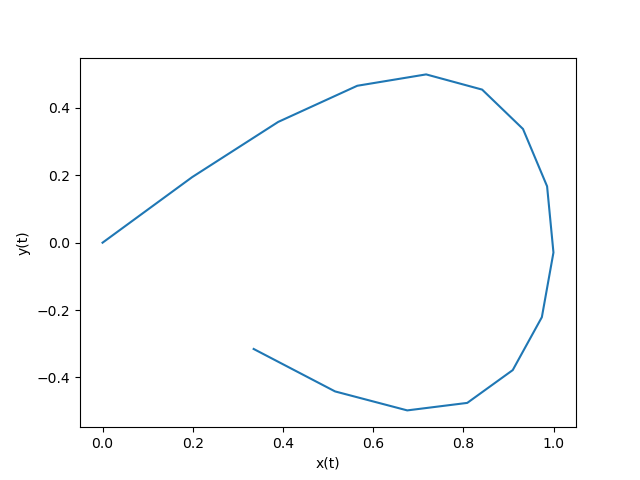
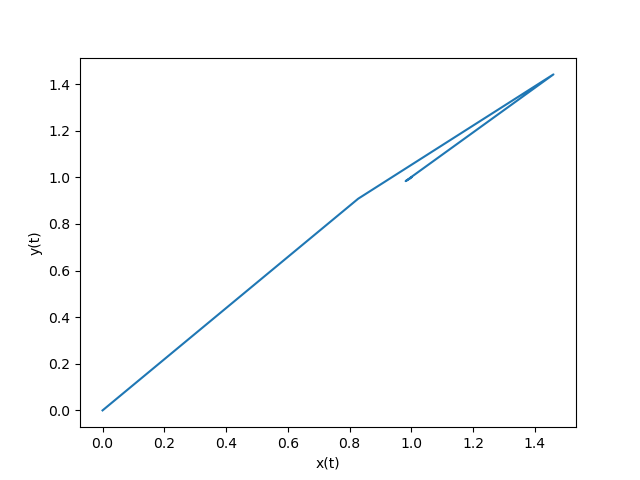
upload png

diff --git a/scripts/src_test/motion_planner.py b/scripts/src_test/motion_planner.py
@@ -1,9 +1,13 @@
 import numpy as np
-import time
-import copy
 
 from pydrake.all import MathematicalProgram, Solve
-from pydrake.systems.framework import LeafSystem, PublishEvent, TriggerType, InputPortIndex
+from pydrake.common.value import Value
+from pydrake.systems.framework import (
+    LeafSystem,
+    PublishEvent,
+    TriggerType,
+    BasicVector_,
+)
 
 import pdb
 
@@ -14,21 +18,34 @@ class QuadraticProgram(LeafSystem):
         # Class Parameters:
         self._UPDATE_RATE = 1.0 / 5.0
 
-        # Initialize Output Values:
-        self.trajectory = np.zeros((63,), dtype=float)
+        # Mathematical Program Parameters:
+        self._dim_size = 2
+        self._state_size = self._dim_size * 2
+        self._full_size = self._dim_size * 3
+        self._num_nodes = 21
+        self._time_horizon = 1.0
+        self._dt = self._time_horizon / (self._num_nodes - 1)
+
+        # Initialize Abstract States:
+        output_position = 3  # Only outputing the position trajectory (x, y, z)
+        output_size = np.zeros((output_position * self._num_nodes,))
+        output_state_init = Value[BasicVector_[float]](output_size)
+        self.state_index = self.DeclareAbstractState(output_state_init)
 
         # Declare Input:
-        self.initial_condition_input = self.DeclareVectorInputPort("initial_condition", 9).get_index()
+        # Full State From CrazySwarm:
+        # self.initial_condition_input = self.DeclareVectorInputPort("initial_condition", 9).get_index()
+        # Test Input:
+        self.initial_condition_input = self.DeclareVectorInputPort("initial_condition", 6).get_index()
         self.target_input = self.DeclareVectorInputPort("target_position", 2).get_index()
 
         # Declare Output: Trajectory Info
-        """Outputs reference trajectory"""
         self.DeclareVectorOutputPort(
-            "motion_plan_output", 
-            63, 
-            self.output,
-            {self.nothing_ticket()})
-        
+            "motion_plan_output",
+            np.size(output_size),
+            self.output_callback,
+           )
+
         # Declare Initialization Event:
         def on_initialize(context, event):
             self.solve_qp(context, event)
@@ -44,42 +61,40 @@ class QuadraticProgram(LeafSystem):
         def on_periodic(context, event):
             self.solve_qp(context, event)
 
-        self.DeclarePeriodicEvent(period_sec=self._UPDATE_RATE,
-                    offset_sec=0.0,
-                    event=PublishEvent(
-                        trigger_type=TriggerType.kPeriodic,
-                        callback=on_periodic,
-                        )
-                    )
+        self.DeclarePeriodicEvent(
+            period_sec=self._UPDATE_RATE,
+            offset_sec=0.0,
+            event=PublishEvent(
+                trigger_type=TriggerType.kPeriodic,
+                callback=on_periodic,
+                )
+            )
 
     # Output Port Callback:
-    def output(self, context, get_trajectory):
-        get_trajectory.SetFromVector(self.trajectory)
+    def output_callback(self, context, output_motion_plan):
+        a_state = context.get_mutable_abstract_state(self.state_index)
+        a_value = a_state.get_mutable_value()
+        output_motion_plan.SetFromVector(a_value.get_mutable_value())
 
     # Methods:
     def solve_qp(self, context, event):
+        """
+        2D Integrator
+        """
         # Initialize MathematicalProgram:
         self.prog = MathematicalProgram()
 
-        # Program Parameters:
-        dim_size = 2
-        state_size = dim_size * 2
-        full_size = dim_size * 3
-        num_nodes = 21
-        time_horizon = 1.0
-        dt = time_horizon / (num_nodes - 1)
-
         # Model Parameters:
         mass = 0.486
-        friction = 0.1 
+        friction = 0.1
 
-        # State and Control Inpute Variables:
-        x   = self.prog.NewContinuousVariables(num_nodes, "x")
-        y   = self.prog.NewContinuousVariables(num_nodes, "y")
-        dx  = self.prog.NewContinuousVariables(num_nodes, "dx")
-        dy  = self.prog.NewContinuousVariables(num_nodes, "dy")
-        ux  = self.prog.NewContinuousVariables(num_nodes, "ux")
-        uy  = self.prog.NewContinuousVariables(num_nodes, "uy")
+        # State and Control Input Variables:
+        x = self.prog.NewContinuousVariables(self._num_nodes, "x")
+        y = self.prog.NewContinuousVariables(self._num_nodes, "y")
+        dx = self.prog.NewContinuousVariables(self._num_nodes, "dx")
+        dy = self.prog.NewContinuousVariables(self._num_nodes, "dy")
+        ux = self.prog.NewContinuousVariables(self._num_nodes, "ux")
+        uy = self.prog.NewContinuousVariables(self._num_nodes, "uy")
 
         # Create Convenient Arrays:
         _s = np.vstack(np.array([x, y, dx, dy, ux, uy]))
@@ -87,13 +102,15 @@ class QuadraticProgram(LeafSystem):
         # Initial Condition Constraints:
         initial_conditions = self.get_input_port(self.initial_condition_input).Eval(context)
         """
+        If getting full state output of CrazySwarm
         Throw away z indicies
         TO DO: Update to 3D model
         """
-        z_index = [2, 5, 8]
-        bounds = np.delete(initial_conditions, z_index)
-        _A_initial_condition = np.eye(full_size, dtype=float)
-        constraint_initial_condition = self.prog.AddLinearConstraint(
+        # z_index = [2, 5, 8]
+        # bounds = np.delete(initial_conditions, z_index)
+        bounds = initial_conditions
+        _A_initial_condition = np.eye(self._full_size, dtype=float)
+        self.prog.AddLinearConstraint(
             A=_A_initial_condition,
             lb=bounds,
             ub=bounds,
@@ -110,39 +127,50 @@ class QuadraticProgram(LeafSystem):
 
         # Collocation Constraints: Python Function
         def collocation_func(z):
-            _defect = z[0][1:] - z[0][:-1] - z[1][:-1] * dt
+            _defect = z[0][1:] - z[0][:-1] - z[1][:-1] * self._dt
             return _defect
 
         ddx, ddy = (ux - friction * dx) / mass, (uy - friction * dy) / mass
-        _x_defect   = collocation_func([x,  dx])
-        _dx_defect  = collocation_func([dx, ddx])
-        _y_defect   = collocation_func([y,  dy])
-        _dy_defect  = collocation_func([dy, ddy])
+        _x_defect = collocation_func([x,  dx])
+        _dx_defect = collocation_func([dx, ddx])
+        _y_defect = collocation_func([y,  dy])
+        _dy_defect = collocation_func([dy, ddy])
         _expr_array = np.asarray([_x_defect, _dx_defect, _y_defect, _dy_defect]).flatten()
 
-        bounds = np.zeros(4 * (num_nodes-1), dtype=float)
-        defect_constraint = self.prog.AddLinearConstraint(
-            _expr_array, 
-            lb=bounds, 
-            ub=bounds 
+        bounds = np.zeros(4 * (self._num_nodes-1), dtype=float)
+        self.prog.AddLinearConstraint(
+            _expr_array,
+            lb=bounds,
+            ub=bounds
             )
 
         # Objective Function:
         target_positions = self.get_input_port(self.target_input).Eval(context)
         target_positions = np.reshape(target_positions, (2, 1))
-        _error =  target_positions - _s[:2, :]
-        _objective_task = self.prog.AddQuadraticCost(np.sum(_error ** 2))
+        _error = target_positions - _s[:2, :]
+        self.prog.AddQuadraticCost(np.sum(_error ** 2))
 
         # Solve the program.
         self.solution = Solve(self.prog)
 
         # Store Solution for Output:
-        # self.trajectory = np.array([
-        #     self.solution.GetSolution(x) , self.solution.GetSolution(y),
-        #     self.solution.GetSolution(dx), self.solution.GetSolution(dy),
-        #     self.solution.GetSolution(ux), self.solution.GetSolution(uy)
-        #     ], dtype=float)
+        self._full_state_trajectory = np.vstack([
+            self.solution.GetSolution(x), self.solution.GetSolution(y),
+            self.solution.GetSolution(dx), self.solution.GetSolution(dy),
+            self.solution.GetSolution(ux), self.solution.GetSolution(uy)
+            ]).flatten()
 
         self.trajectory = np.vstack([
-            self.solution.GetSolution(x), self.solution.GetSolution(y), np.zeros((num_nodes,), dtype=float)
+            self.solution.GetSolution(x),
+            self.solution.GetSolution(y),
+            np.zeros((self._num_nodes,), dtype=float)
             ]).flatten()
+
+        # How can I clean this up?
+        a_state = context.get_mutable_abstract_state(self.state_index)
+        a_state.set_value(self.trajectory)
+
+
+# Test Instantiation:
+if __name__ == "__main__":
+    unit_test = QuadraticProgram()

diff --git a/scripts/src_test/unittest_motion_planner.py b/scripts/src_test/unittest_motion_planner.py
@@ -1,0 +1,75 @@
+import matplotlib.pyplot as plt
+import numpy as np
+
+from pydrake.systems.analysis import Simulator
+from pydrake.systems.framework import DiagramBuilder
+from pydrake.systems.primitives import LogVectorOutput, ConstantVectorSource
+
+import pdb
+
+# Custom LeafSystems:
+import motion_planner
+
+# Create a block diagram containing our system.
+builder = DiagramBuilder()
+
+# Motion Planner:
+driver_planner = motion_planner.QuadraticProgram()
+planner = builder.AddSystem(driver_planner)
+
+# Create Dummy Inputs:
+dummy_target_position = builder.AddSystem(ConstantVectorSource(np.ones((2,), dtype=float)))
+driver_ic = ConstantVectorSource(np.zeros((6,), dtype=float))
+dummy_initial_condition = builder.AddSystem(driver_ic)
+
+# Connect Systems:
+builder.Connect(
+    dummy_target_position.get_output_port(0),
+    planner.get_input_port(driver_planner.target_input)
+    )
+
+builder.Connect(
+    dummy_initial_condition.get_output_port(0),
+    planner.get_input_port(driver_planner.initial_condition_input)
+    )
+
+# Logger:
+logger = LogVectorOutput(planner.get_output_port(0), builder)
+diagram = builder.Build()
+
+# Set the initial conditions, x(0).
+context = diagram.CreateDefaultContext()
+
+# Create the simulator:
+simulator = Simulator(diagram, context)
+simulator.set_target_realtime_rate(1.0)
+simulator.Initialize()
+
+# Simulate System:
+FINAL_TIME = 10.0
+dt = 1.0 / 100.0
+next_time_step = dt
+
+while next_time_step <= FINAL_TIME:
+    print(f"Drake Real Time Rate: {simulator.get_actual_realtime_rate()}")
+    simulator.AdvanceTo(next_time_step)
+    # Get Subsystem Context for ConstantSourceVector:
+    subsystem_context = driver_ic.GetMyContextFromRoot(context)
+    src_value = driver_ic.get_mutable_source_value(subsystem_context)
+    # Get end states to set as next IC:
+    new_ic = np.reshape(
+        driver_planner._full_state_trajectory,
+        (-1, driver_planner._num_nodes)
+        )[:, -1]
+    src_value.set_value(new_ic)
+    # Increment time step:
+    next_time_step += dt
+
+# Plot the results:
+log = logger.FindLog(context)
+plt.figure()
+plt.plot(log.data()[0, :], log.data()[1, :])
+plt.xlabel('x(t)')
+plt.ylabel('y(t)')
+plt.show()
+plt.savefig('foo.png')

diff --git a/scripts/src_test/unittest_reference_trajectory.py b/scripts/src_test/unittest_reference_trajectory.py
@@ -4,9 +4,6 @@ from pydrake.systems.analysis import Simulator
 from pydrake.systems.framework import DiagramBuilder
 from pydrake.systems.primitives import LogVectorOutput
 
-# DEBUG:
-import pdb
-
 # Custom LeafSystems:
 import reference_trajectory
 
@@ -17,11 +14,11 @@ builder = DiagramBuilder()
 driver_reference = reference_trajectory.FigureEight()
 reference = builder.AddSystem(driver_reference)
 
-# Logger: (Causing Output Erro)
+# Logger:
 logger = LogVectorOutput(reference.get_output_port(0), builder)
 diagram = builder.Build()
 
-# Set the initial conditions, x(0).
+# Set the initial context
 context = diagram.CreateDefaultContext()
 
 # Create the simulator:
@@ -30,7 +27,7 @@ simulator.set_target_realtime_rate(1.0)
 simulator.Initialize()
 
 # Simulate System:
-FINAL_TIME = 3.0
+FINAL_TIME = 10.0
 dt = 1.0 / 100.0
 next_time_step = dt
 
@@ -46,4 +43,3 @@ plt.plot(log.data()[0, :], log.data()[1, :])
 plt.xlabel('x(t)')
 plt.ylabel('y(t)')
 plt.show()
-plt.savefig('foo.png')
